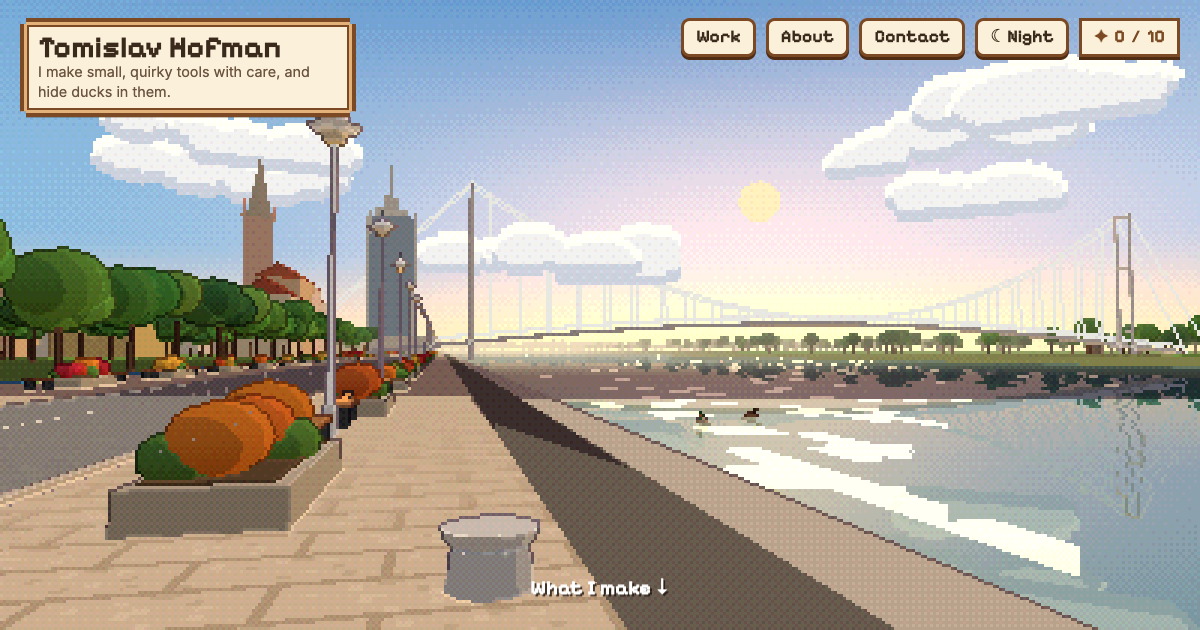
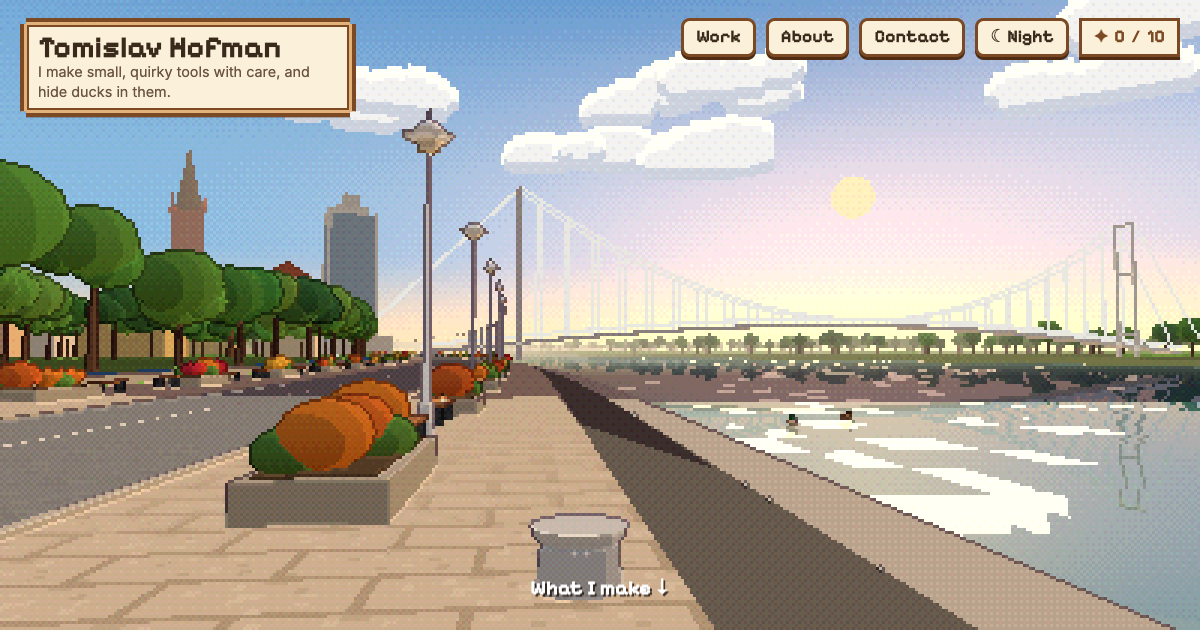
feat(home): Curved promenade and raised running track
The world is built straight and bent along the bank's curve (bend.js);
the cat and the boat move in straight coordinates and are bent when drawn.

diff --git a/js/osijek/world.js b/js/osijek/world.js
@@ -3,6 +3,7 @@
 // cathedral spire. Units are metres; +x is towards the river, -z is upstream.
 import * as THREE from '../vendor/three-0.170.0.module.min.js';
 import { catTextures, makeCatSprite, ORANGE_TABBY } from './sprites.js';
+import { bend, bendGeometry, bendRigid, bendInstances } from './bend.js';
 
 export const WATER_Y = -2.0;
 const BRIDGE_Z = -140;
@@ -10,6 +11,8 @@ const PYLON_A = 13.6;   // city-side pylon x, on the lower walkway
 const PYLON_B = 172;    // far-side pylon x
 const PYLON_H = 35;
 const LEG = 1.8;        // half the distance between a pylon's two legs
+export const TRACK_Y = 0.5;     // the running track and the park sit half a metre above the promenade
+const SEG = 6;          // long strips are cut every few metres so they can follow the curve
 
 /* ---------------- helpers ---------------- */
 
@@ -81,6 +84,14 @@ export function bake(group, emissive = null) {
 function box(w, h, d, color, x, y, z, parent) {
   const m = new THREE.Mesh(new THREE.BoxGeometry(w, h, d), toon(color));
   m.position.set(x, y, z);
+  parent.add(m);
+  return m;
+}
+
+// A long box running the whole length of the promenade, cut into short pieces along its length.
+function longBox(w, h, x, y, color, parent) {
+  const m = new THREE.Mesh(new THREE.BoxGeometry(w, h, 2580, 1, 1, Math.ceil(2580 / SEG)), toon(color));
+  m.position.set(x, y, -1210);
   parent.add(m);
   return m;
 }
@@ -488,7 +499,7 @@ export function buildWorld(scene) {
   const ground = new THREE.Group();
   scene.add(ground);
   const plane = (x0, x1, z0, z1, y, color, map) => {
-    const m = new THREE.Mesh(new THREE.PlaneGeometry(x1 - x0, z0 - z1), map ? new THREE.MeshToonMaterial({ color: 0xffffff, map, gradientMap: toonRamp }) : toon(color));
+    const m = new THREE.Mesh(new THREE.PlaneGeometry(x1 - x0, z0 - z1, 1, Math.ceil((z0 - z1) / SEG)), map ? new THREE.MeshToonMaterial({ color: 0xffffff, map, gradientMap: toonRamp }) : toon(color));
     m.rotation.x = -Math.PI / 2;
     m.position.set((x0 + x1) / 2, y, (z0 + z1) / 2);
     ground.add(m);
@@ -496,19 +507,28 @@ export function buildWorld(scene) {
   };
   // Cross-section from the park to the river: blue running track, cobbled strip with flower
   // boxes and benches, asphalt path, river-side cobbled strip, then the embankment.
-  plane(-2500, -15.5, 80, -2500, 0, null, grassTexture(r, '#6fa44a', 1240, 1290));   // park and beyond
-  plane(-15.5, -13, 80, -2500, 0.03, '#3d84c8');                                   // blue running track
-  plane(-13, -12.2, 80, -2500, 0.02, null, grassTexture(r, '#7fb552', 1, 1290));   // grass edge
+  // The park and the blue running track are raised half a metre above the promenade, held
+  // by a low concrete wall. Past 450 m to the left a flat, unbent ground fills the horizon
+  // (bending that far out on the inside of the curve would fold the ground over itself).
+  const base = new THREE.Mesh(new THREE.PlaneGeometry(6000, 6000), toon('#6fa44a'));
+  base.rotation.x = -Math.PI / 2;
+  base.position.set(0, WATER_Y - 0.6, -1500);
+  base.userData.unbent = true;
+  scene.add(base);
+  plane(-450, -15.5, 80, -2500, TRACK_Y, null, grassTexture(r, '#6fa44a', 224, 1290));   // park
+  plane(-15.5, -13, 80, -2500, TRACK_Y + 0.03, '#3d84c8');                           // blue running track
+  longBox(0.28, TRACK_Y + 0.05, -12.86, (TRACK_Y + 0.05) / 2, '#c9c2b5', ground);       // retaining wall
+  plane(-12.72, -12.2, 80, -2500, 0.02, null, grassTexture(r, '#7fb552', 1, 1290));  // grass edge
   plane(-12.2, -4.6, 80, -2500, 0.045, null, pavingTexture(r, 5, 1720));          // cobbles, city side
   plane(-4.6, 3.4, 80, -2500, 0.04, null, asphaltTexture(r, 5, 1290));            // asphalt path
   plane(3.4, 9.2, 80, -2500, 0.045, null, pavingTexture(r, 4, 1720));             // cobbles, river side
-  const line = new THREE.Mesh(new THREE.PlaneGeometry(0.12, 2580), toon('#f2f2ee'));
+  const line = new THREE.Mesh(new THREE.PlaneGeometry(0.12, 2580, 1, Math.ceil(2580 / SEG)), toon('#f2f2ee'));
   line.rotation.x = -Math.PI / 2;
   line.position.set(-1.0, 0.05, -1210);
   ground.add(line);
-  for (const kx of [-4.6, 3.4]) box(0.2, 0.1, 2580, '#cfc8bb', kx, 0.05, -1210, ground);   // kerbs
+  for (const kx of [-4.6, 3.4]) longBox(0.2, 0.1, kx, 0.05, '#cfc8bb', ground);   // kerbs
   const slopeStrip = (x0, y0, x1, y1, color) => {
-    const m = new THREE.Mesh(new THREE.PlaneGeometry(Math.hypot(x1 - x0, y1 - y0), 3000), toon(color));
+    const m = new THREE.Mesh(new THREE.PlaneGeometry(Math.hypot(x1 - x0, y1 - y0), 3000, 1, 3000 / SEG), toon(color));
     m.rotation.x = -Math.PI / 2;
     m.rotation.y = Math.atan2(y0 - y1, x1 - x0);
     m.position.set((x0 + x1) / 2, (y0 + y1) / 2, -1400);
@@ -517,15 +537,15 @@ export function buildWorld(scene) {
   slopeStrip(9.2, 0.045, 12.6, -1.1, '#6f6b66');        // dark stepped revetment
   plane(12.6, 14.6, 80, -2500, -1.1, '#cbc5ba');        // lower walkway
   slopeStrip(14.6, -1.1, 16.8, WATER_Y - 0.1, '#968a76'); // rocks down to the water
-  const farSlope = new THREE.Mesh(new THREE.PlaneGeometry(Math.hypot(6, 0.5 - WATER_Y), 3000), toon('#8a9a62'));
+  const farSlope = new THREE.Mesh(new THREE.PlaneGeometry(Math.hypot(6, 0.5 - WATER_Y), 3000, 1, 3000 / SEG), toon('#8a9a62'));
   farSlope.rotation.x = -Math.PI / 2;
   farSlope.rotation.y = -Math.atan2(0.5 - WATER_Y, 6);
   farSlope.position.set(175, (WATER_Y + 0.5) / 2, -1400);
   ground.add(farSlope);
-  plane(178, 2500, 80, -2500, 0.5, null, grassTexture(r, '#79ab4f', 1160, 1290));
+  plane(178, 1400, 80, -2500, 0.5, null, grassTexture(r, '#79ab4f', 570, 1290));
 
   /* water */
-  const water = new THREE.Mesh(new THREE.PlaneGeometry(200, 3000), new THREE.ShaderMaterial({
+  const water = new THREE.Mesh(new THREE.PlaneGeometry(200, 3000, 1, 3000 / SEG), new THREE.ShaderMaterial({
     vertexShader: WATER_VERT, fragmentShader: WATER_FRAG,
     uniforms: {
       tReflect: { value: null }, textureMatrix: { value: null }, time: { value: 0 },
@@ -543,13 +563,13 @@ export function buildWorld(scene) {
   const greens = ['#4f8f3a', '#5c9b3f', '#447f37', '#6aa548', '#3f7a3f'];
   for (let z = 22; z > -260; z -= 8 + r() * 4) {
     const t = makeTree(r, 1.15 + r() * 0.35, greens);
-    t.position.set(-17.5 + (r() - 0.5) * 1.5, 0, z);
+    t.position.set(-17.5 + (r() - 0.5) * 1.5, TRACK_Y, z);
     scene.add(t);
     W.trees.push(t);
   }
   for (let i = 0; i < 70; i++) {
     const t = makeTree(r, 1.1 + r() * 0.6, greens);
-    t.position.set(-23 - r() * 55, 0, 25 - r() * 230);
+    t.position.set(-23 - r() * 55, TRACK_Y, 25 - r() * 230);
     scene.add(t);
     W.trees.push(t);
   }
@@ -559,7 +579,7 @@ export function buildWorld(scene) {
   // Distant trees (far bank, park depth, horizon) as instances: cheap, not clickable.
   const far = [];
   for (let i = 0; i < 520; i++) far.push([180 + r() * 260, 0.5, 60 - r() * 1300, 1 + r() * 0.8]);
-  for (let i = 0; i < 260; i++) far.push([-40 - r() * 220, 0, -230 - r() * 900, 1.1 + r() * 0.8]);
+  for (let i = 0; i < 260; i++) far.push([-40 - r() * 220, TRACK_Y, -230 - r() * 900, 1.1 + r() * 0.8]);
   for (let i = 0; i < 160; i++) far.push([-60 + r() * 360, 0.5, -1000 - r() * 500, 1.6 + r()]);
   const canopyGeo = new THREE.IcosahedronGeometry(2.4, 1);
   const trunkGeo = new THREE.CylinderGeometry(0.25, 0.3, 3, 5);
@@ -796,6 +816,18 @@ export function buildWorld(scene) {
   bake(city);
   bake(cat);
   bake(W.bridge.group, '#7a7a74');
+
+  /* bend everything along the curve of the promenade */
+  for (const t of W.trees) t.userData.straight = t.position.clone();
+  W.canopies = canopies;
+  const still = new Set([sky, W.sunDisc, W.moonDisc, W.stars, W.hemi, W.sun, W.sun.target, base, ...W.clouds, ...W.ducks, bollard]);
+  const shaped = new Set([ground, water, farProps, city, W.windows, W.bridge.group]);
+  for (const o of [...scene.children]) {
+    if (still.has(o)) continue;
+    if (shaped.has(o)) bendGeometry(o);
+    else if (o.isInstancedMesh) bendInstances(o);
+    else bendRigid(o);
+  }
 
   return W;
 }

diff --git a/js/osijek/interact.js b/js/osijek/interact.js
@@ -1,6 +1,7 @@
 // Clicks, hover labels, speech bubbles, particles and the hidden secrets of the scene.
 import * as THREE from '../vendor/three-0.170.0.module.min.js';
-import { WATER_Y, makeDuck, makeBoat, rng } from './world.js';
+import { WATER_Y, TRACK_Y, makeDuck, makeBoat, rng } from './world.js';
+import { bend, heading } from './bend.js';
 import { catTextures, makeCatSprite, GREY_TABBY } from './sprites.js';
 
 export const SECRETS = {
@@ -328,7 +329,7 @@ export class Interactions {
     if (this.counts.bridge >= 4 && !this.found.has('love')) {
       for (let i = 0; i < 14; i++) {
         const x = 20 + Math.random() * 140;
-        const p = new THREE.Vector3(x, this.world.bridge.deckY(x) + 2, this.world.bridge.z + (Math.random() - 0.5) * 3);
+        const p = bend(new THREE.Vector3(x, this.world.bridge.deckY(x) + 2, this.world.bridge.z + (Math.random() - 0.5) * 3));
         this.after(i * 0.18, () => this.sprite(HEART, p, 3.2, new THREE.Vector3((Math.random() - 0.5), 3 + Math.random() * 2, 0), 5));
       }
       this.bubble('♥', point.clone().add(new THREE.Vector3(0, 6, 0)), 2600);
@@ -358,7 +359,9 @@ export class Interactions {
     }
     if (this.counts.water >= 3 && !this.boat) {
       this.boat = makeBoat();
-      this.boat.position.set(70 + Math.random() * 30, WATER_Y, -330);
+      // It sails in straight coordinates and is placed on the bent river every frame.
+      this.boat.userData.straight = new THREE.Vector3(70 + Math.random() * 30, WATER_Y, -330);
+      this.boat.position.copy(bend(this.boat.userData.straight));
       this.scene.add(this.boat);
       this.discover('boat');
     }
@@ -458,8 +461,10 @@ export class Interactions {
     const top = tree.localToWorld(new THREE.Vector3(0, 5.5, 0));
     cat.g.position.copy(top);
     this.scene.add(cat.g);
+    // Her walk is worked out on the straight promenade and bent onto the curve when drawn.
+    cat.straight = tree.userData.straight.clone().add(new THREE.Vector3(0, 5.5, 0));
     this.world.clickables.push(cat.g);
-    const b = this.world.bollard.position;
+    const b = this.world.bollard.position;   // near the viewer, where the path is not bent yet
     this.visitor = { ...cat, state: 'fall', vy: 0, t: 0, st: 0, clicks: [], nextBlink: 2, squint: 0, stride: 0,
       base: new THREE.Vector3(b.x - 0.55, 0.045, b.z + 0.1), perch: new THREE.Vector3(b.x, this.world.bollard.userData.top, b.z) };
     this.bubble('Mijau?!', top.clone().add(new THREE.Vector3(0, 1, 0)), 1200);
@@ -518,7 +523,14 @@ export class Interactions {
     v.state = state;
     v.st = 0;
     v.fly.visible = state === 'play';
-    v.from = v.g.position.clone();
+    v.from = (this.inVisitor ? v.g.position : v.straight).clone();
+  }
+
+  // Ground height under a straight-coordinate x: the park and running track are raised,
+  // with a short drop over the retaining wall.
+  groundY(x) {
+    const k = Math.min(1, Math.max(0, (x + 12.6) / -0.5));
+    return 0.045 + (TRACK_Y - 0.045 + 0.03) * k;
   }
 
   updateVisitor(dt, t) {
@@ -527,6 +539,16 @@ export class Interactions {
     const g = v.g;
     v.t += dt;
     v.st += dt;
+    g.position.copy(v.straight);
+    this.inVisitor = true;
+    this.stepVisitor(v, g, dt, t);
+    this.inVisitor = false;
+    if (this.visitor !== v) return;
+    v.straight.copy(g.position);
+    g.position.copy(bend(v.straight));
+  }
+
+  stepVisitor(v, g, dt, t) {
     const ease = (k) => k * k * (3 - 2 * k);
     // Lit like the 3D things around her: a little dimmer and warmer by day, moonlit blue at night.
     const tint = new THREE.Color('#e4dccf').lerp(new THREE.Color('#5d678f'), this.state.night);
@@ -535,7 +557,7 @@ export class Interactions {
     v.headSprite.material.rotation = 0;
     g.scale.set(1, 1, 1);
 
-    const screenX = (p) => p.clone().project(this.camera).x;
+    const screenX = (p) => bend(p).project(this.camera).x;
     // Trot or walk towards a ground point; steps follow the distance actually covered.
     const moveTo = (target, speed, walk) => {
       const d = target.clone().sub(g.position).setY(0);
@@ -545,7 +567,7 @@ export class Interactions {
       v.stride += step;
       const strideLen = walk ? 0.16 : 0.32;
       const a = Math.floor(v.stride / strideLen) % 2 === 0;
-      g.position.y = 0.045 + (walk ? 0 : (a ? 0.012 : 0));
+      g.position.y = this.groundY(g.position.x) + (walk ? 0 : (a ? 0.012 : 0));
       if (walk === 'front') {
         v.pose('front', KITTEN.head);
         v.bodySprite.material.map = a ? KITTEN.body : KITTEN.paw;
@@ -581,8 +603,9 @@ export class Interactions {
         g.position.y += v.vy * dt;
         v.pose('side', KITTEN.runB);
         g.scale.y = 1.1;
-        if (g.position.y <= 0.045) {
-          g.position.y = 0.045;
+        const floor = this.groundY(g.position.x);
+        if (g.position.y <= floor) {
+          g.position.y = floor;
           for (let i = 0; i < 12; i++) this.small.spawn(g.position, new THREE.Vector3((Math.random() - 0.5) * 2, Math.random(), (Math.random() - 0.5) * 2), '#d9cdb5', 0.7, -4);
           v.path = this.pathToBollard(g.position.clone(), v.base);
           this.setVisitorState(v, 'land');
@@ -746,9 +769,12 @@ export class Interactions {
     this.updateHotel(dt, t);
     this.updateVisitor(dt, t);
     if (this.boat) {
-      this.boat.position.z += 9 * dt;
-      this.boat.position.y = WATER_Y + Math.sin(t * 1.6) * 0.08;
-      if (this.boat.position.z > 40) { this.scene.remove(this.boat); this.boat = null; this.counts.water = 0; }
+      const sp = this.boat.userData.straight;
+      sp.z += 9 * dt;
+      sp.y = WATER_Y + Math.sin(t * 1.6) * 0.08;
+      this.boat.position.copy(bend(sp));
+      this.boat.rotation.y = heading(-sp.z);
+      if (sp.z > 40) { this.scene.remove(this.boat); this.boat = null; this.counts.water = 0; }
     }
 
     const cat = this.world.cat;

diff --git a/js/osijek/bend.js b/js/osijek/bend.js
@@ -1,0 +1,112 @@
+// The promenade is not straight: from where the viewer stands the bank bulges into the Drava,
+// and towards the footbridge the path swings gently to the left, away from the river.
+//
+// The world is built in "straight" coordinates (x across the promenade, -z along it) and then
+// bent: a straight point (x, y, z) lands at P(s) + x * N(s), where s = -z is the distance
+// along the path, P(s) the bent centre line and N(s) its right-hand normal. Widths are kept,
+// so every row of flower boxes, the kerbs, the embankment and the far bank follow the curve.
+import * as THREE from '../vendor/three-0.170.0.module.min.js';
+
+const TURN = 0.27;        // total left turn in radians (about 15 degrees)
+const S0 = 18;            // the curve starts a little ahead of the viewer...
+const S1 = 230;           // ...and is complete a bit past the bridge
+const STEP = 1;
+const S_MIN = -200;
+const S_MAX = 3200;
+
+export const heading = (s) => {
+  const k = Math.min(1, Math.max(0, (s - S0) / (S1 - S0)));
+  return TURN * k * k * (3 - 2 * k);
+};
+
+// Centre line, integrated once.
+const N = Math.ceil((S_MAX - S_MIN) / STEP) + 1;
+const PX = new Float32Array(N);
+const PZ = new Float32Array(N);
+for (let i = 1; i < N; i++) {
+  const th = heading(S_MIN + (i - 0.5) * STEP);
+  PX[i] = PX[i - 1] - Math.sin(th) * STEP;
+  PZ[i] = PZ[i - 1] - Math.cos(th) * STEP;
+}
+const i0 = Math.round(-S_MIN / STEP);     // shift so that P(0) is the origin
+const ox = PX[i0];
+const oz = PZ[i0];
+
+function centre(s) {
+  const f = Math.min(N - 1.001, Math.max(0, (s - S_MIN) / STEP));
+  const i = Math.floor(f);
+  const t = f - i;
+  return [PX[i] + (PX[i + 1] - PX[i]) * t - ox, PZ[i] + (PZ[i + 1] - PZ[i]) * t - oz];
+}
+
+// Straight coordinates -> world. Returns a new vector.
+export function bend(p) {
+  const s = -p.z;
+  const th = heading(s);
+  const [cx, cz] = centre(s);
+  return new THREE.Vector3(cx + p.x * Math.cos(th), p.y, cz - p.x * Math.sin(th));
+}
+
+const _v = new THREE.Vector3();
+const _n = new THREE.Vector3();
+const _inv = new THREE.Matrix4();
+const _nm = new THREE.Matrix3();
+const _inm = new THREE.Matrix3();
+
+// Bends the vertices (and normals) of a static object in place.
+export function bendGeometry(root) {
+  root.updateMatrixWorld(true);
+  root.traverse((o) => {
+    if (!o.geometry || o.isSprite || o.isInstancedMesh) return;
+    const g = o.geometry;
+    const pos = g.attributes.position;
+    const nor = g.attributes.normal;
+    _inv.copy(o.matrixWorld).invert();
+    _nm.getNormalMatrix(o.matrixWorld);
+    _inm.getNormalMatrix(_inv);
+    for (let i = 0; i < pos.count; i++) {
+      _v.fromBufferAttribute(pos, i).applyMatrix4(o.matrixWorld);
+      const th = heading(-_v.z);
+      const w = bend(_v);
+      if (nor) {
+        _n.fromBufferAttribute(nor, i).applyMatrix3(_nm).applyAxisAngle(THREE.Object3D.DEFAULT_UP, th).applyMatrix3(_inm).normalize();
+        nor.setXYZ(i, _n.x, _n.y, _n.z);
+      }
+      w.applyMatrix4(_inv);
+      pos.setXYZ(i, w.x, w.y, w.z);
+    }
+    pos.needsUpdate = true;
+    if (nor) nor.needsUpdate = true;
+    g.computeBoundingBox();
+    g.computeBoundingSphere();
+  });
+}
+
+// Moves an object rigidly to its bent place: same shape, turned with the path.
+export function bendRigid(o, anchor = o.position) {
+  const a = anchor.clone();
+  const th = heading(-a.z);
+  const m = new THREE.Matrix4().makeTranslation(-a.x, -a.y, -a.z)
+    .premultiply(new THREE.Matrix4().makeRotationY(th))
+    .premultiply(new THREE.Matrix4().makeTranslation(...bend(a).toArray()));
+  o.updateMatrix();
+  o.applyMatrix4(m);
+}
+
+// Instanced meshes: each instance is moved rigidly.
+export function bendInstances(mesh) {
+  const m = new THREE.Matrix4();
+  const p = new THREE.Vector3();
+  const q = new THREE.Quaternion();
+  const sc = new THREE.Vector3();
+  for (let i = 0; i < mesh.count; i++) {
+    mesh.getMatrixAt(i, m);
+    m.decompose(p, q, sc);
+    const th = heading(-p.z);
+    q.premultiply(new THREE.Quaternion().setFromAxisAngle(THREE.Object3D.DEFAULT_UP, th));
+    m.compose(bend(p), q, sc);
+    mesh.setMatrixAt(i, m);
+  }
+  mesh.instanceMatrix.needsUpdate = true;
+  mesh.computeBoundingSphere();
+}

diff --git a/js/osijek/main.js b/js/osijek/main.js
@@ -59,12 +59,12 @@ export function start(container, opts = {}) {
     if (aspect >= 1) {
       camera.fov = aspect > 2 ? 40 : 47;
       camera.position.set(8.1, 1.7, 6);
-      camera.lookAt(40, 9, -140);
+      camera.lookAt(22, 9, -140);
     } else {
       // Portrait: keep the promenade, the cathedral and the city-side pylon in view.
       camera.fov = 64;
       camera.position.set(8.4, 1.7, 9);
-      camera.lookAt(13, 12, -140);
+      camera.lookAt(7, 12, -140);
     }
     camera.updateProjectionMatrix();
     render();
